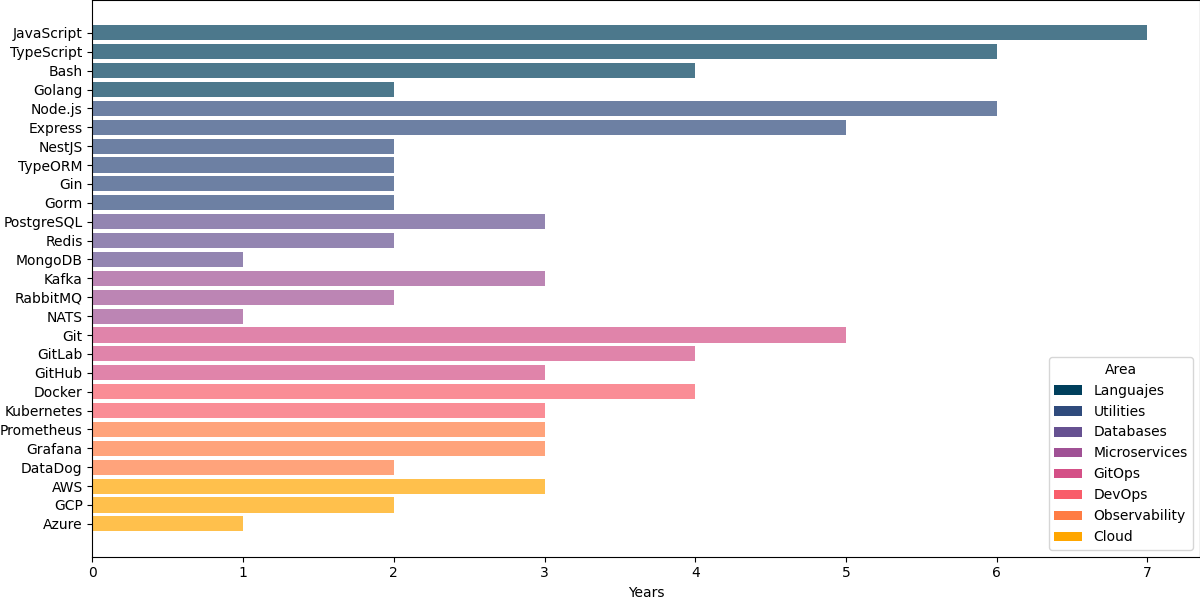
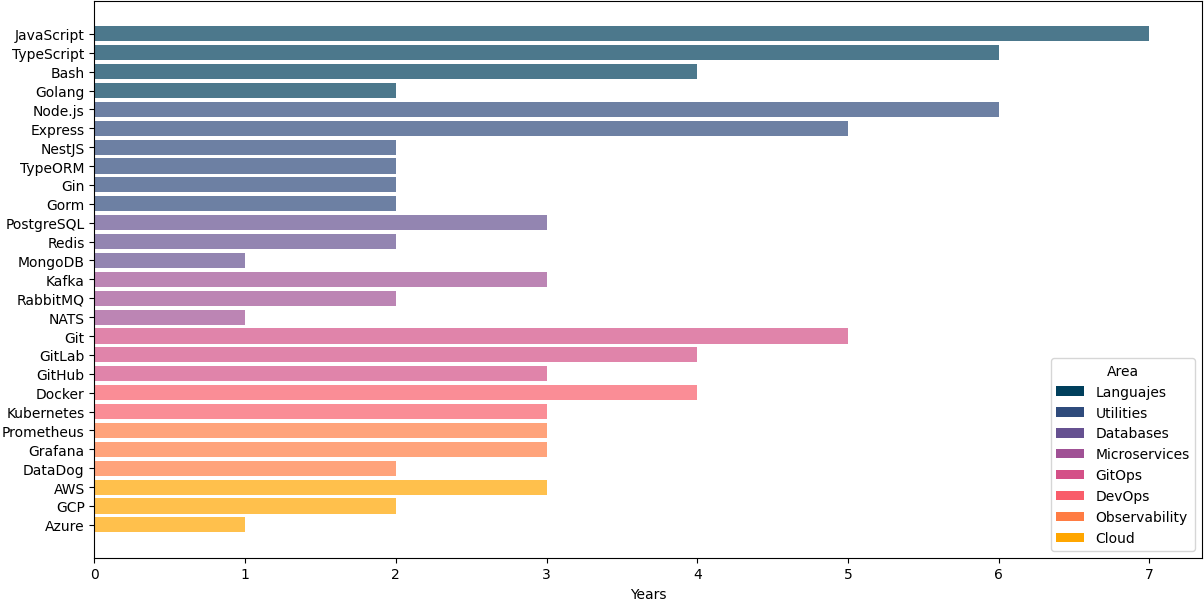
adjust the padding

Changed region(s): [[0.0, 0.0, 1.0, 0.96], [0.5242, 0.96, 0.555, 1.0]]

diff --git a/plot.py b/plot.py
@@ -120,4 +120,4 @@ plt.tight_layout(pad=0)
 plt.show()
 
 # Save the plot with zero margins
-plt.savefig(output_file, bbox_inches='tight', pad_inches=0)
+plt.savefig(output_file, bbox_inches='tight', pad_inches=0.02, format='png')
